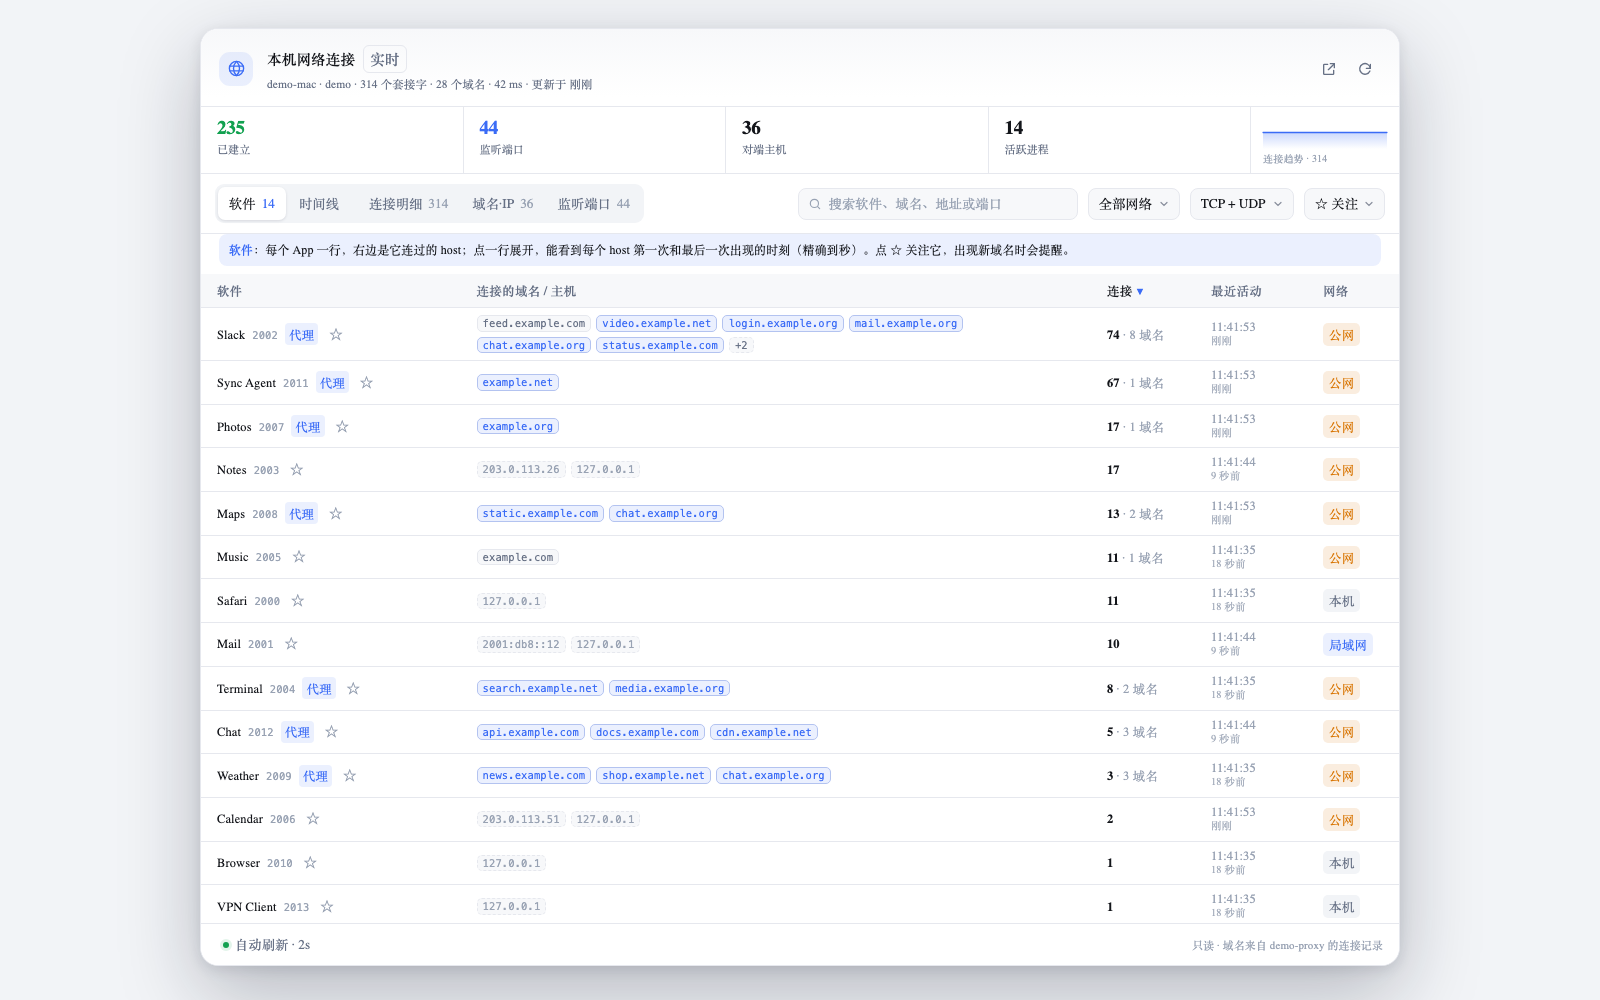
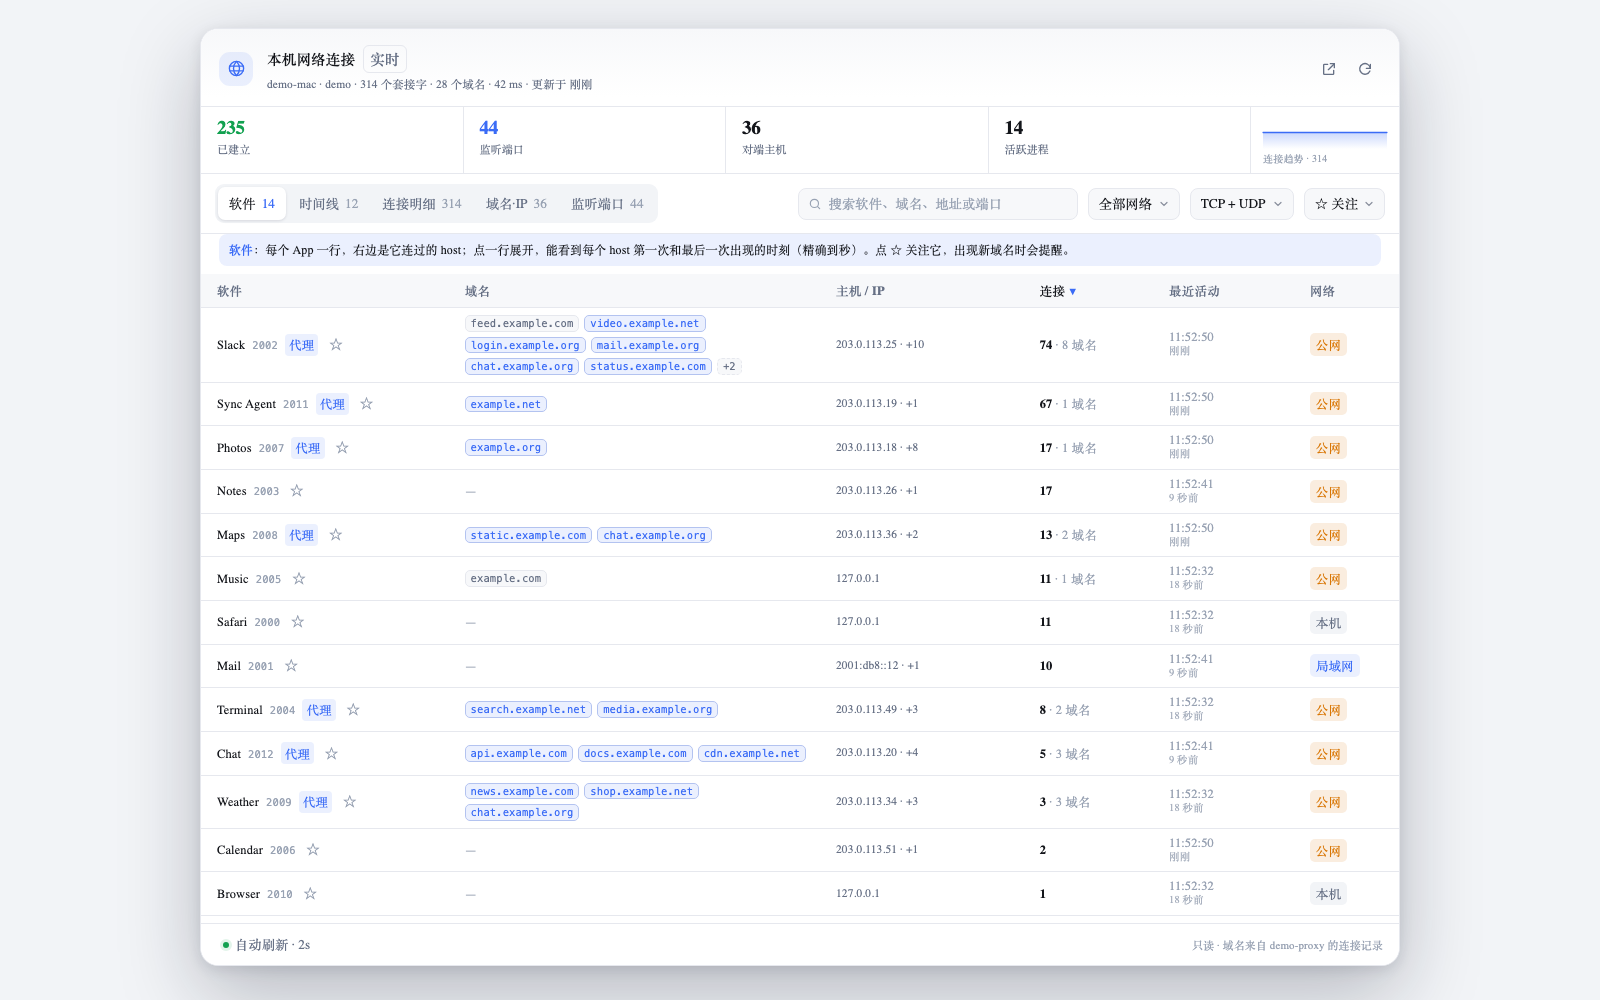
feat: 软件视图把域名与主机拆成两列
域名列只放域名（经代理的高亮），主机 / IP 列显示首个真实目的 IP 与数量；版本 0.5.1。

diff --git a/lib/ui.js b/lib/ui.js
@@ -463,6 +463,7 @@
     border-color: color-mix(in srgb, var(--nh-accent) 30%, var(--nh-border));
   }
   .nh-chip.ip { color: var(--nh-faint); border-style: dashed; }
+  .nh-ips { font-size: 11.5px; color: var(--nh-muted); line-height: 1.55; font-variant-numeric: tabular-nums; white-space: nowrap; overflow: hidden; text-overflow: ellipsis; }
   .nh-chip.ptr { color: var(--nh-muted); }
   /* 软件视图里域名是主角，允许换行铺开，不裁掉第二行。 */
   .nh-apps .nh-chips { max-height: none; }
@@ -902,6 +903,11 @@
           if (info.lastSeen) previous.lastSeen = Math.max(previous.lastSeen || 0, info.lastSeen)
         }
         app.domains.set(host, previous)
+        // 经代理的域名同时记下真实目标 IP，让「主机 / IP」列也能用。
+        if (row.viaProxy && row.target && row.target.addr) {
+          app.ips.add(row.target.addr)
+          app.ipScopes.set(row.target.addr, row.targetScope || scope)
+        }
         if (previous.firstSeen) app.firstSeen = app.firstSeen ? Math.min(app.firstSeen, previous.firstSeen) : previous.firstSeen
         if (previous.lastSeen) app.lastSeen = Math.max(app.lastSeen || 0, previous.lastSeen)
         // 网络范围跟着「域名」走：一个软件的大量本地连接不应把它标成本机。
@@ -1299,7 +1305,7 @@
       const empty = !rows && !ipRows
         ? '<tr><td colspan="4" style="color:var(--nh-faint)">还没有拿到 host / 时间，再等一轮刷新。</td></tr>'
         : ''
-      return `<tr class="nh-app-detail"><td colspan="5"><div class="nh-appdom">
+      return `<tr class="nh-app-detail"><td colspan="6"><div class="nh-appdom">
         <div class="nh-appdom-head">${esc(app.process || '未知进程')} · 每个 host 的出现时间（只统计本次运行）</div>
         <table class="nh-mini-table"><thead><tr><th>host</th><th>连接</th><th>第一次出现</th><th>最近一次</th></tr></thead>
         <tbody>${rows}${ipRows}${empty}</tbody></table>
@@ -1317,7 +1323,8 @@
       }
       const head = `<thead><tr>
         ${appTh('name', '软件')}
-        ${appTh('domains', '连接的域名 / 主机')}
+        ${appTh('domains', '域名')}
+        <th>主机 / IP</th>
         ${appTh('connections', '连接')}
         ${appTh('lastSeen', '最近活动')}
         ${appTh('scope', '网络')}
@@ -1329,10 +1336,9 @@
           return `<span class="nh-chip ${meta.proxy ? 'dom' : 'ptr'}" title="${esc(title)}">${esc(name)}</span>`
         }).join('')
         const scopeRank = { public: 0, wildcard: 0, lan: 1, loopback: 3 }
-        const ipChips = domains.length ? '' : [...app.ips]
+        const ips = [...app.ips]
           .sort((a, b) => (scopeRank[app.ipScopes.get(a)] ?? 2) - (scopeRank[app.ipScopes.get(b)] ?? 2))
-          .slice(0, 3)
-          .map((ip) => `<span class="nh-chip ip" title="没有解析到域名，只能看到 IP">${esc(ip)}</span>`).join('')
+        const ipText = ips[0] + (ips.length > 1 ? ` · +${ips.length - 1}` : '')
         const more = domains.length > 6 ? `<span class="nh-chip more">+${domains.length - 6}</span>` : ''
         // 有域名时按域名所在网络算；只有 IP 时取最「外」的那个（公网 > 局域网 > 本机）。
         const ranks = { public: 0, wildcard: 0, lan: 1, loopback: 3 }
@@ -1355,14 +1361,15 @@
         const open = view.appOpen === app.key
         const row = `<tr class="nh-row is-clickable${open ? ' expanded' : ''}" data-app="${esc(app.key)}" data-process="${esc(app.process)}" tabindex="0" aria-expanded="${open ? 'true' : 'false'}">
           <td><div class="nh-proc" title="${esc(app.name)} (PID ${esc(app.pid == null ? '—' : app.pid)})"><span class="nm">${esc(app.name)}</span><span class="pid">${esc(app.pid == null ? '' : app.pid)}</span>${proxy}${extra}${star}</div></td>
-          <td><div class="nh-chips">${chips}${ipChips}${more}</div></td>
+          <td><div class="nh-chips">${chips}${more}${domains.length ? '' : '<span style="color:var(--nh-faint)">—</span>'}</div></td>
+          <td>${ips.length ? `<div class="nh-ips" title="${esc(ips.join(', '))}">${esc(ipText)}</div>` : '<span style="color:var(--nh-faint)">—</span>'}</td>
           <td><b style="font-variant-numeric:tabular-nums;font-weight:600">${fmtNum(app.established)}</b>${domains.length ? `<span style="color:var(--nh-faint)"> · ${fmtNum(domains.length)} 域名</span>` : ''}</td>
           <td class="nh-when" title="${esc(clockTitle(app.lastSeen))}">${clockTime(app.lastSeen)}<span class="nh-rel">${app.lastSeen ? relTime(app.lastSeen) : ''}</span></td>
           <td>${scopeBadge}</td>
         </tr>`
         return open ? row + appDetailRow(app) : row
       }).join('')
-      const cols = '<colgroup><col style="width:22%"><col><col style="width:104px"><col style="width:112px"><col style="width:88px"></colgroup>'
+      const cols = '<colgroup><col style="width:21%"><col style="width:31%"><col style="width:17%"><col style="width:92px"><col style="width:100px"><col style="width:72px"></colgroup>'
       body.innerHTML = `<table class="nh-table nh-apps">${cols}${head}<tbody>${rows}</tbody></table>`
     }
 

diff --git a/README.md b/README.md
@@ -10,7 +10,7 @@
 
 ## 能做什么
 
-- **软件**（默认）：每个 App 一行，列出它正在连接的域名（经本地代理的连接会还原出真实域名，单独高亮）；连接数、域名数、**最近活动（精确到秒）**、所在网络一目了然。Chrome / Electron / 钉钉这类会把网络交给 helper 进程的 App，会按进程路径归并回宿主 App（例如 `Google Chrome Helper` 归到 `Google Chrome`），无法归并的系统进程标为「系统组件」。点一行原地展开，能看到它连过的每个 host 第一次、最后一次出现的时刻，以及一条「查看全部连接」的入口。
+- **软件**（默认）：每个 App 一行，在「域名」与「主机 / IP」两列分别列出它连过的域名和真实目的 IP（经本地代理的连接会还原出真实域名，单独高亮）；连接数、域名数、**最近活动（精确到秒）**、所在网络一目了然。Chrome / Electron / 钉钉这类会把网络交给 helper 进程的 App，会按进程路径归并回宿主 App（例如 `Google Chrome Helper` 归到 `Google Chrome`），无法归并的系统进程标为「系统组件」。点一行原地展开，能看到它连过的每个 host 第一次、最后一次出现的时刻，以及一条「查看全部连接」的入口。
 - **时间线**：只记录**新出现**的连接，精确到秒，回答「刚才那一秒，哪个 App 连了哪个 host」。插件启动后的第一份快照只做基线，之后最多保留 400 条；点一条可以跳到对应的连接明细。
 
   ![时间线](docs/timeline.png)
